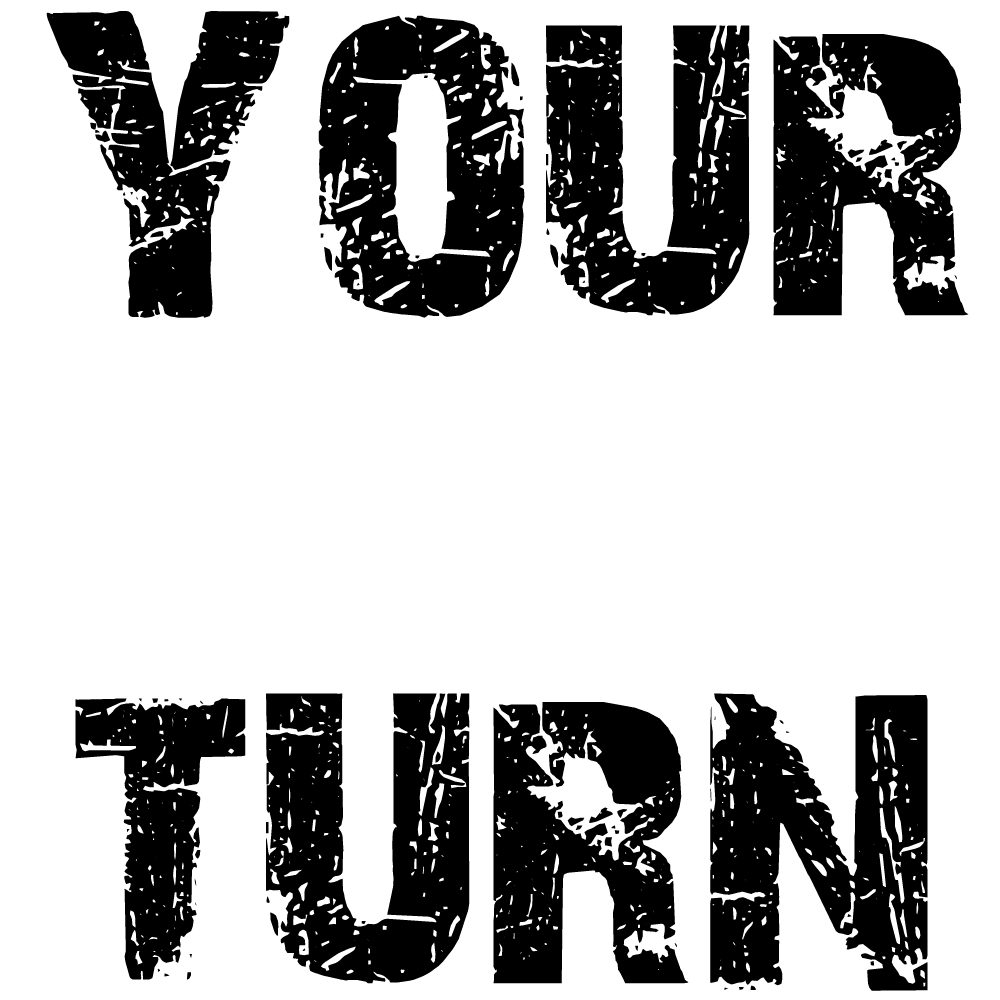
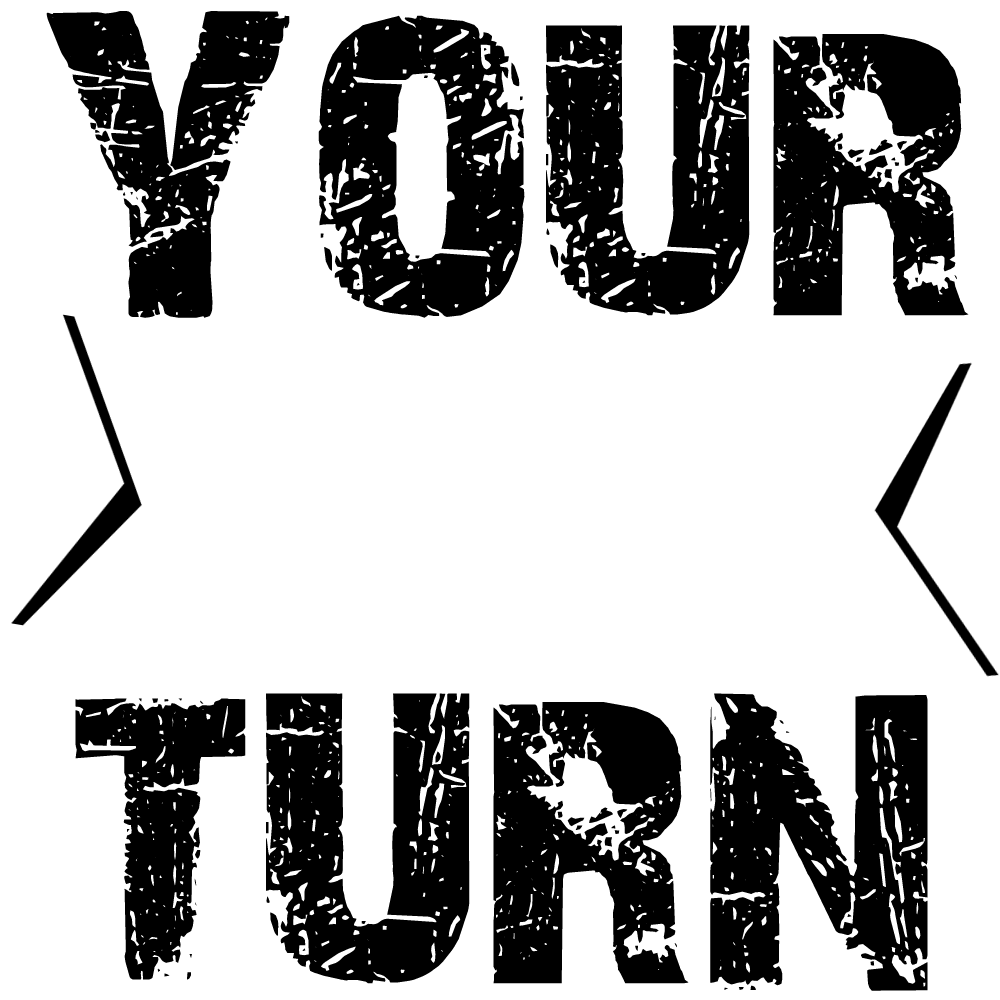
player turn, replay and win state functional

Changed region(s): [[0.0, 0.31, 0.155, 0.62], [0.868, 0.372, 0.961, 0.589], [0.93, 0.589, 1.0, 0.682]]

diff --git a/tic.js b/tic.js
@@ -14,6 +14,20 @@ var winConditions = [
 
 $(document).ready(function () {
     console.log('document was loaded');
+    $('#winner').css({"opacity": "0"}).fadeTo(2000, 1);
+    $('#playerX').addClass('playerX_flash');
+    $('#playerO').addClass('playerO_flash');
+    setTimeout(function(){
+    $('#playerX').fadeTo(100, 0);
+    setTimeout(function(){
+    $('#playerX').css({"top": "45vh"});
+    }, 500);
+    setTimeout(function(){
+        $('#playerX').css({"opacity": "1"});
+    }, 500);
+    },1500);
+
+
 
     for (var x = 1; x <= 3; x++) { //for loop to add 3 rows
         var row = $("<div>", { //creating row div with appropriate classes
@@ -92,13 +106,48 @@ function playerMove(activeTile) {
     if ($(activeTile).text() == "") { //if the tile is empty
         console.log('currentPlayer: ', currentPlayer);
         if (currentPlayer == playerX) { //if it is X's move
+
+            setTimeout(function(){
+                $('#playerX').css({"top": "5vh"});
+            }, 200);
+            setTimeout(function(){
+                $('#playerX').css({"opacity": "0"});
+            }, 100);
+
+            setTimeout(function(){
+            setTimeout(function(){
+                $('#playerO').css({"bottom": "45vh"});
+            }, 200);
+            setTimeout(function(){
+                $('#playerO').css({"opacity": "1"});
+            }, 200);
+            }, 200);
+
             console.log("X!: ", currentPlayer);
             $(activeTile).addClass('xSquare'); //place an X onto the tile
             currentPlayer = playerO; //switch from X to O's move
+            console.log("X!: ", currentPlayer);
             gameTile = "X";
             storeMove(gameTile);
             //$(whoseTurnIsItAnyway).text("Player O's move!"); // update to show it is O's turn
         } else { //if it is O's move
+
+            setTimeout(function(){
+                $('#playerO').css({"bottom": "5vh"});
+            }, 200);
+            setTimeout(function(){
+                $('#playerO').css({"opacity": "0"});
+            }, 100);
+
+            setTimeout(function(){
+            setTimeout(function(){
+                $('#playerX').css({"top": "45vh"});
+            }, 200);
+            setTimeout(function(){
+                $('#playerX').css({"opacity": "1"});
+            }, 200);
+            }, 200);
+
             console.log("O!: ", currentPlayer);
             $(activeTile).addClass('oSquare'); //place an O onto the tile
             currentPlayer = playerX; //switch from O to X's move
@@ -149,6 +198,7 @@ function doWeHaveAWinner() {
             (playerMoves[winConditions[i][1]]) == (playerMoves[winConditions[i][2]])) {
             console.log("Winner True!", playerMoves[winConditions[i][0]], playerMoves[winConditions[i][1]], playerMoves[winConditions[i][2]]);
 
+
             if (playerMoves[winConditions[i][0]] == "X") {
                 winner = "x";
                 console.log('Winner is X');
@@ -161,12 +211,24 @@ function doWeHaveAWinner() {
                 src: "img/" + winner + "wins.png",
                 id: "winner"
             });
+
             $('#winner').remove();
             $(win).insertAfter('#playerX');
+            $('#playerX').remove();
+            $('#playerO').remove();
+            var replay = $('<img>', {
+                src: "img/replay.png",
+                id: 'replay'
+            });
+            $(replay).insertBefore('#winner');
 
         }
     }
 }
+
+$('.info').on('click', '#replay', function(){
+    location.reload();
+})
 
 
 

diff --git a/style.css b/style.css
@@ -112,20 +112,59 @@ span:hover {
 
 .info #playerX {
     position: absolute;
-    top: 50px;
+    top: 5vh;
     left: 50%;
     margin-left: -50%;
     width: 60%;
-    opacity: .5;
+    opacity: 0;
+    transition-duration: .01s;
+}
+
+.info .playerX_flash {
+    position: absolute;
+    top: 5vh;
+    left: 50%;
+    margin-left: -50%;
+    width: 60%;
+    opacity: 0;
+    animation-name: flashX;
+    animation-duration: 2s;
+    animation-iteration-count: 1;
+    animation-timing-function: linear;
+}
+
+@keyframes flashX {
+    0% { opacity: 1;}
+    25% { opacity: 1;}
+    100% { opacity: 0;}
 }
 
 .info #playerO {
     position: absolute;
-    bottom: 50px;
+    bottom: 5vh;
     left: 50%;
     margin-left: -50%;
     width: 60%;
-    opacity: .5;
+    opacity: 0;
+}
+
+.info .playerO_flash {
+    position: absolute;
+    bottom: 5vh;
+    left: 50%;
+    margin-left: -50%;
+    width: 60%;
+    opacity: 0;
+    animation-name: flashO;
+    animation-duration: 2s;
+    animation-iteration-count: 1;
+    animation-timing-function: linear;
+}
+
+@keyframes flashO {
+    0% { opacity: 1;}
+    25% { opacity: 1;}
+    100% { opacity: 0;}
 }
 
 .info #winner {
@@ -135,6 +174,17 @@ span:hover {
     transform: translate(-70%, -50%);
     height: 60vh;
     width: 100%;
+}
+
+.info #replay {
+    position: absolute;
+    top: 5vh;
+    left: 50%;
+    margin-left: -50%;
+    width: 60%;
+    opacity: 1;
+    transition-duration: .01s;
+    cursor: pointer;
 }
 
 .row {
